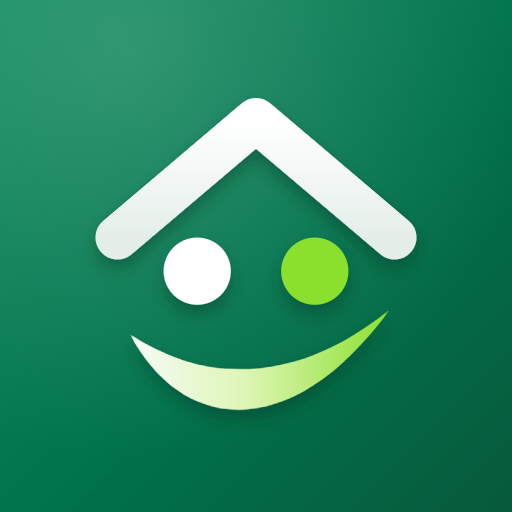
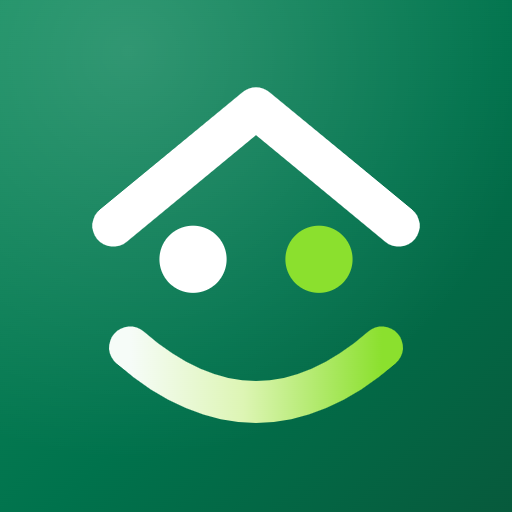
Uygulama ikonu: eski düz gülümseme hâline dönüş

Changed region(s): [[0.1562, 0.1562, 0.8438, 0.5938], [0.1875, 0.5938, 0.8125, 0.8438]]

diff --git a/sw.js b/sw.js
@@ -1,4 +1,4 @@
-const CACHE = 'eminevim-v52';
+const CACHE = 'eminevim-v53';
 const ASSETS = [
   './',
   './index.html',

diff --git a/PROJE_ILERLEME.md b/PROJE_ILERLEME.md
@@ -890,3 +890,5 @@ OneDrive gorsel\ klasöründeki 10 görsel kesildi: assets/ty/hero-*.webp (sohbe
 - 2026-11-20: Logo: 4 ozgun isaret onerisi taslak/logo-onerileri.png (A konum catisi, B e+cati, C ev-tekerlek, D birlikte); tik begenilmedi. Karar bekliyor.
 
 - 2026-11-20: Yeni logo: catı + iki nokta (beyaz/yesil) + firca gulumseme (ucları ince, saga yukselen, beyazdan yesile). Kaynak taslak/ikon.svg. Uygulama ikonu (ios AppIcon 1024, assets/icon-180/192/512), acilis ekranina ikon (assets/ty/ikon.png), sw v52. iOS ikonu ve yerel acilis ekrani yeni Codemagic derlemesi ister; web/Pages hemen gecer. Turk Patent marka sorgusu yapilmadi.
+
+- 2026-11-20: Ikon eski duz hale dondu (catı + iki nokta + simetrik beyazdan yesile gulumseme, firca dudak kaldirildi). Dosyalar ayni (ios AppIcon, assets/icon-*, assets/ty/ikon.png), sw v53.
